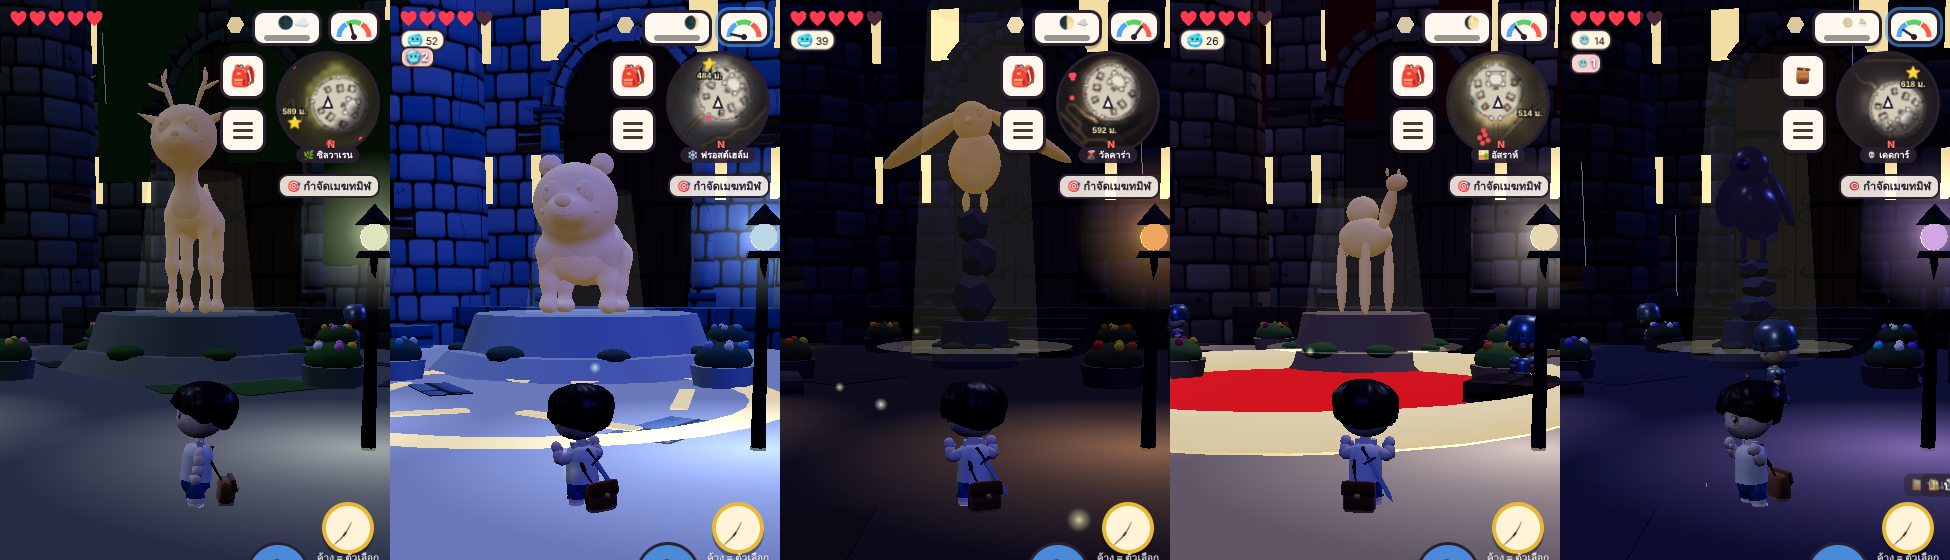
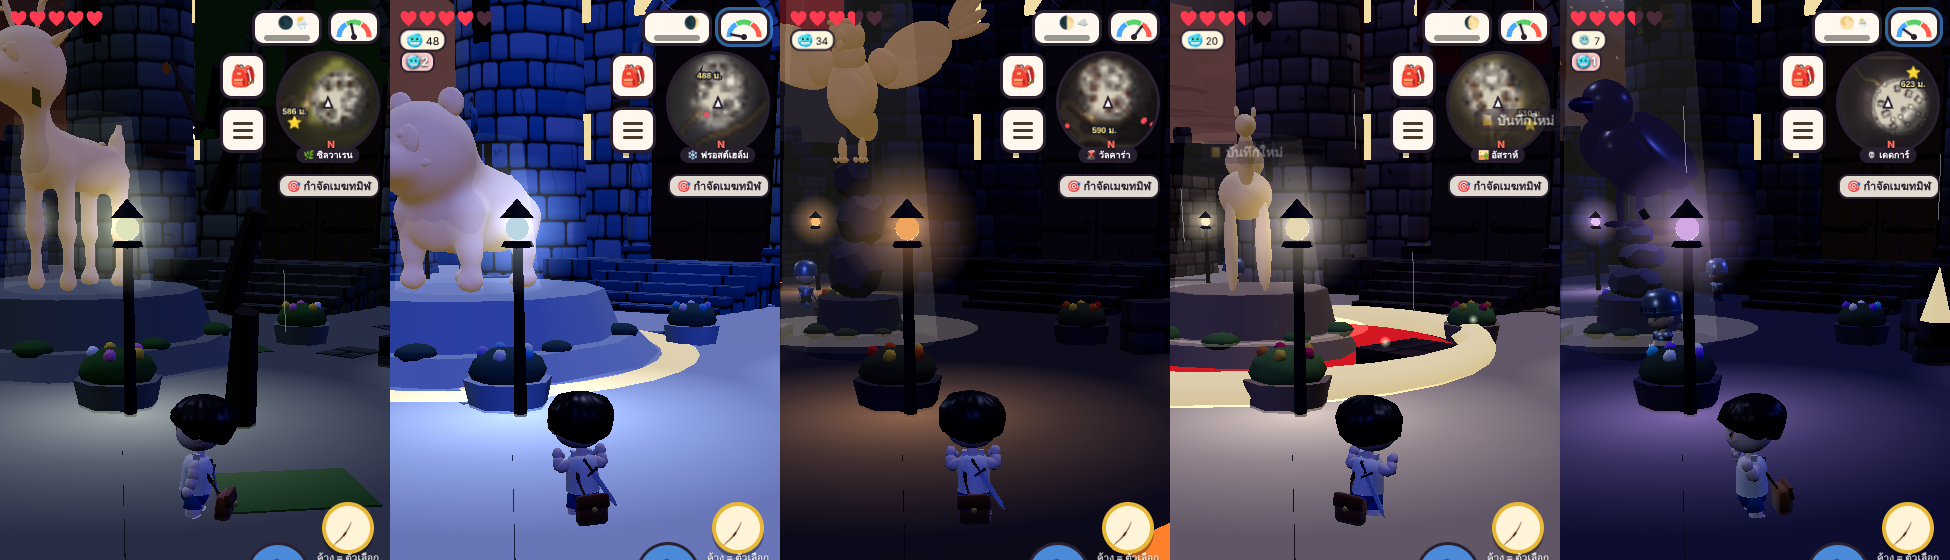
newgame: capital statues stand 6 m out from the keep door so they don't block it
Claude-Session: https://claude.ai/code/session_01GPWeNez232vT9ersFNk7wt

diff --git a/newgame/src/main.js b/newgame/src/main.js
@@ -4808,14 +4808,14 @@ function capPlaza(k, V, on) { if (V.plz) { scene.remove(V.plz); V.plz.traverse(o
   if (P.wings) an.traverse(o => { const r = o.userData.role; if (r === 'armL' || r === 'armR') { const sx = r === 'armL' ? -1 : 1; o.rotation.z = sx * P.wings; o.position.x += sx * .12; o.position.y += .14; o.scale.x *= 1.6 } });   /* 🦅 wings spread wide */
   an.scale.setScalar(P.scale); an.rotation.y = P.face || 0; an.updateMatrixWorld(true); const bb = new THREE.Box3().setFromObject(an), foot = Math.max(.45, Math.max(-bb.min.x, bb.max.x, -bb.min.z, bb.max.z));   /* v5.12 the plinth fits the statue (designer) */
   const r2 = P.pillar ? .85 : foot * 1.05, r1 = r2 * 1.25, h2 = P.pillar ? .7 : .9;
-  const st = new THREE.Group(); g.add(st); const ped = new THREE.Mesh(new THREE.CylinderGeometry(r1, r1 * 1.15, .55, 12), pl); ped.position.y = .27; st.add(ped); const ped2 = new THREE.Mesh(new THREE.CylinderGeometry(r2, r2 * 1.12, h2, 12), pl); ped2.position.y = .55 + h2 / 2; st.add(ped2); let top = .55 + h2;
+  const oz = P.oz != null ? P.oz : D.CAP_PLAZA_OZ, st = new THREE.Group(); st.position.z = oz; g.add(st); const ped = new THREE.Mesh(new THREE.CylinderGeometry(r1, r1 * 1.15, .55, 12), pl); ped.position.y = .27; st.add(ped); const ped2 = new THREE.Mesh(new THREE.CylinderGeometry(r2, r2 * 1.12, h2, 12), pl); ped2.position.y = .55 + h2 / 2; st.add(ped2); let top = .55 + h2;
   if (P.pillar) { const rr = .62; for (let i = 0; i < 3; i++) { const sz = rr * (1 - i * .14), r = new THREE.Mesh(new THREE.DodecahedronGeometry(sz, 0), pl); r.scale.y = P.pillar / 2.4; r.position.set(Math.sin(i * 2.1) * .1, top + sz * P.pillar / 2.4 * .9, Math.cos(i * 2.1) * .1); r.rotation.y = i * 1.3; st.add(r); top += sz * 2 * P.pillar / 2.4 * .82 } }   /* a crag of stacked rock for a bird to stand on */
   for (let i = 0; i < 8; i++) { const a = i / 8 * 6.283 + .4, m = new THREE.Mesh(new THREE.SphereGeometry((.22 + (i % 3) * .06) * Math.min(1.4, r1 / 1.5 + .3), 8, 6), moss); m.scale.y = .45; m.position.set(Math.cos(a) * r1 * .9, .58, Math.sin(a) * r1 * .9); st.add(m) }   /* moss on the plinth's lip */
   an.position.y = top - .05 - bb.min.y; st.add(an);
-  for (let i = 0; i < 4; i++) { const a = i / 4 * 6.283 + .785, x = Math.cos(a) * 5.2, z = Math.sin(a) * 5.2, pt = new THREE.Mesh(new THREE.CylinderGeometry(.7, .6, .5, 8), pl); pt.position.set(x, .25, z); g.add(pt); const b = new THREE.Mesh(new THREE.SphereGeometry(.62, 8, 6), moss); b.scale.y = .6; b.position.set(x, .62, z); g.add(b);
+  for (let i = 0; i < 4; i++) { const a = i / 4 * 6.283 + .785, x = Math.cos(a) * 5.2, z = Math.sin(a) * 5.2 + oz, pt = new THREE.Mesh(new THREE.CylinderGeometry(.7, .6, .5, 8), pl); pt.position.set(x, .25, z); g.add(pt); const b = new THREE.Mesh(new THREE.SphereGeometry(.62, 8, 6), moss); b.scale.y = .6; b.position.set(x, .62, z); g.add(b);
     for (let j = 0; j < 5; j++) { const f = new THREE.Mesh(new THREE.SphereGeometry(.11, 6, 5), new THREE.MeshStandardMaterial({ color: P.flowers[j % P.flowers.length], roughness: .7 })); const fa = j / 5 * 6.283 + i; f.position.set(x + Math.cos(fa) * .38, .9, z + Math.sin(fa) * .38); g.add(f) } }   /* four planters */
-  const up = new THREE.Mesh(new THREE.CircleGeometry(2.6, 28), new THREE.MeshBasicMaterial({ color: '#ffd890', transparent: true, opacity: 0, depthWrite: false, blending: THREE.AdditiveBlending })); up.rotation.x = -Math.PI / 2; up.position.y = .58; g.add(up);
-  const beam = new THREE.Mesh(new THREE.CylinderGeometry(1.2, 1.7, top + P.scale * 1.4, 18, 1, true), new THREE.MeshBasicMaterial({ color: '#ffe0a0', transparent: true, opacity: 0, depthWrite: false, side: THREE.DoubleSide, blending: THREE.AdditiveBlending })); beam.position.y = (top + P.scale * 1.4) / 2 + .3; g.add(beam);   /* 🔦 the statue is lit from below at night */
+  const up = new THREE.Mesh(new THREE.CircleGeometry(2.6, 28), new THREE.MeshBasicMaterial({ color: '#ffd890', transparent: true, opacity: 0, depthWrite: false, blending: THREE.AdditiveBlending })); up.rotation.x = -Math.PI / 2; up.position.set(0, .58, oz); g.add(up);
+  const beam = new THREE.Mesh(new THREE.CylinderGeometry(1.2, 1.7, top + P.scale * 1.4, 18, 1, true), new THREE.MeshBasicMaterial({ color: '#ffe0a0', transparent: true, opacity: 0, depthWrite: false, side: THREE.DoubleSide, blending: THREE.AdditiveBlending })); beam.position.set(0, (top + P.scale * 1.4) / 2 + .3, oz); g.add(beam);   /* 🔦 the statue is lit from below at night */
   g.position.set(c.x, c.h, c.z); g.rotation.y = c.ry; scene.add(g); g.userData.up = { stone, up, beam, glint: !!P.glint };
   const L = [], co = Math.cos(c.ry), si = Math.sin(c.ry); for (let i = 0; i < P.lamps; i++) { const a = i / P.lamps * 6.283 + P.a0, lx = Math.cos(a) * P.r, lz = Math.sin(a) * P.r; if (lz < -7) continue; L.push({ x: c.x + lx * co + lz * si, z: c.z - lx * si + lz * co, y: c.h, py: c.h, k }) } const lg = lampGroup(L); g.add(lg); g.updateMatrixWorld(); lg.applyMatrix4(new THREE.Matrix4().copy(g.matrixWorld).invert()); V.plz = g; capPlazaLit(V) }
 function capPlazaLit(V) { const u = V.plz && V.plz.userData.up; if (!u) return; const n = nightK(); u.stone.emissiveIntensity = n * (u.glint ? .16 : .14); u.up.material.opacity = n * .26; u.beam.material.opacity = n * .05 }

diff --git a/newgame/tools/test/capplaza.js b/newgame/tools/test/capplaza.js
@@ -11,7 +11,7 @@ const ROOT = path.resolve(__dirname, '../../..'), PORT = 8891, OUT = process.arg
     const E = (f, a) => pg.evaluate(f, a); await E(() => document.querySelectorAll('.ov').forEach(o => o.remove()));
     await E(() => { const N = window.__ng, C = N.CAPS.sylvaren; N.S.time = 600; N.placeMe(C.x + 4, C.z + 17) }); await pg.waitForFunction(() => { const V = window.__ng.CAPV.sylvaren; return V && V.plz }, null, { timeout: 60000, polling: 400 });
     const r = await E(() => { const N = window.__ng, V = N.CAPV.sylvaren; let n = 0; V.plz.traverse(o => { if (o.isMesh || o.isInstancedMesh) n++ }); return { meshes: n } }); log('plaza', JSON.stringify(r)); if (r.meshes < 20) errs.push('statue + planters + lamps built');
-    const shot = async (k, name, t) => { await E(([k, t]) => { const N = window.__ng, C = N.CAPS[k]; document.querySelectorAll('.ov').forEach(o => o.remove()); N.S.time = t; const c = Math.cos(C.ry), s = Math.sin(C.ry), lx = 2.5, lz = 13, x = C.x + lx * c + lz * s, z = C.z - lx * s + lz * c; N.placeMe(x, z); N.CAM.yaw = Math.atan2(C.x - x, C.z - z); N.CAM.pitch = .12; N.CAM.manualT = performance.now() + 1e7 }, [k, t]); await wait(3500); await E(() => { const t = document.getElementById('toast'); if (t) t.style.display = 'none' }); await pg.screenshot({ path: OUT + '/' + name + '.png' }) };
+    const shot = async (k, name, t) => { await E(([k, t]) => { const N = window.__ng, C = N.CAPS[k]; document.querySelectorAll('.ov').forEach(o => o.remove()); N.S.time = t; const c = Math.cos(C.ry), s = Math.sin(C.ry), lx = 7, lz = 13, x = C.x + lx * c + lz * s, z = C.z - lx * s + lz * c, ax = C.x + 1 * s, az = C.z + 1 * c; N.placeMe(x, z); N.CAM.yaw = Math.atan2(ax - x, az - z); N.CAM.pitch = .22; N.CAM.manualT = performance.now() + 1e7 }, [k, t]); await wait(3500); await E(() => { const t = document.getElementById('toast'); if (t) t.style.display = 'none' }); await pg.screenshot({ path: OUT + '/' + name + '.png' }) };
     await shot('sylvaren', 'sylvaren-day', 600); await shot('sylvaren', 'sylvaren-night', 1320);
     const up = await E(() => { const u = window.__ng.CAPV.sylvaren.plz.userData.up; return +u.up.material.opacity.toFixed(2) }); log('uplight at night', up); if (!(up > .15)) errs.push('the statue is uplit at night');
     for (const k of ['frosthelm', 'valkara', 'asrah', 'deadgar']) { await E(k => { const N = window.__ng, C = N.CAPS[k]; N.S.restored[k] = 1; N.S.time = 600; document.querySelectorAll('.ov').forEach(o => o.remove()); N.placeMe(C.x + 3.5, C.z + 10.5) }, k);

diff --git a/newgame/src/data.js b/newgame/src/data.js
@@ -371,6 +371,7 @@ export const ANIMAL_HINT = {   // v5.11 🐾 where each catch-quest animal lives
   boar: { npc: 'mali', k: 'sylvaren', when: 'หมูป่าชอบพุ่งชน หลบแล้วค่อยโยน 🕸 ตาข่าย', say: 'หมูป่าชอบขุดดินในป่าทาง{dir}ของเมือง ราว {m} เมตร' },
   hawk: { npc: 'miners', k: 'valkara', when: 'เหยี่ยวอยู่บนที่สูง ปีนขึ้นไปเงียบๆ ตอนกลางวัน', say: 'ข้าเห็นเหยี่ยววนอยู่บนหน้าผาสูงทาง{dir}ของเหมือง ราว {m} เมตร' } };
 export const HARB_STATUE = 'whale';   // v5.09 🗿 the harbour square statue: 'hero' (old) · 'sailor' ⚓ · 'whale' 🐋 (preview)
+export const CAP_PLAZA_OZ = 6;   // v5.12 the statue stands this far out from the keep's door, toward the gate (designer: don't block the door)
 export const CAP_PLAZA = {   // v5.12 🦌 restored capitals' squares: the statue's animal · its stone · planter flowers / bush · lamps (n · radius · start angle) · pillar = a rock crag under a bird
   sylvaren:  { animal: 'deer', scale: 2.3, stone: '#b4b8a8', flowers: ['#ffd84a', '#ff9ac8', '#ffffff'], lamps: 8, r: 11, a0: .39 },
   frosthelm: { animal: 'bear', scale: 2.0, stone: '#dfe8f0', flowers: ['#9fd4ff', '#ffffff', '#c8b8ff'], bush: '#5a7a6a', lamps: 8, r: 11, a0: .39 },
